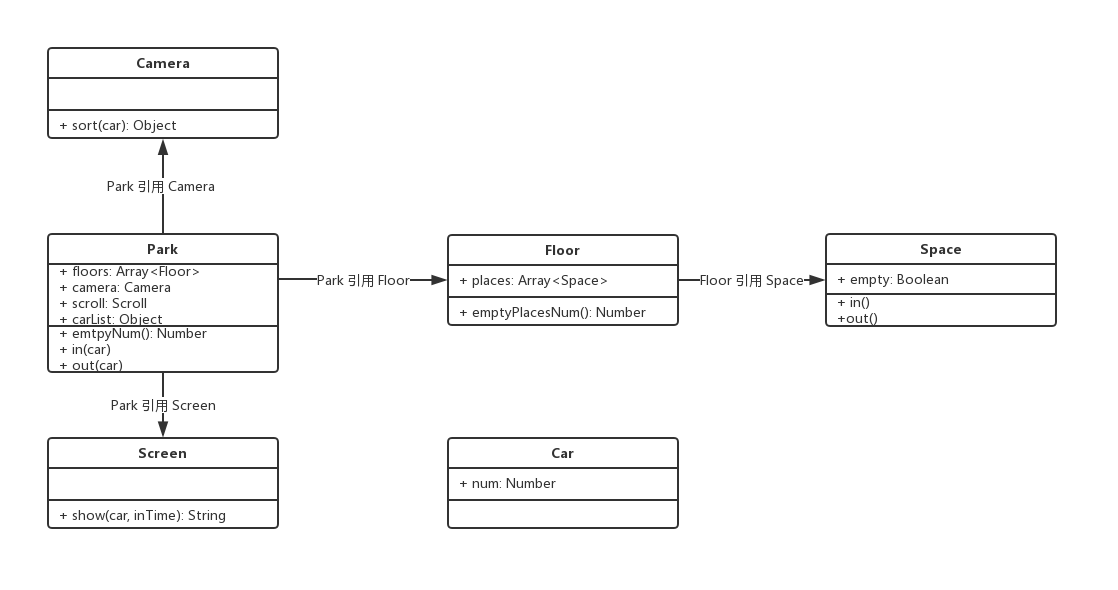
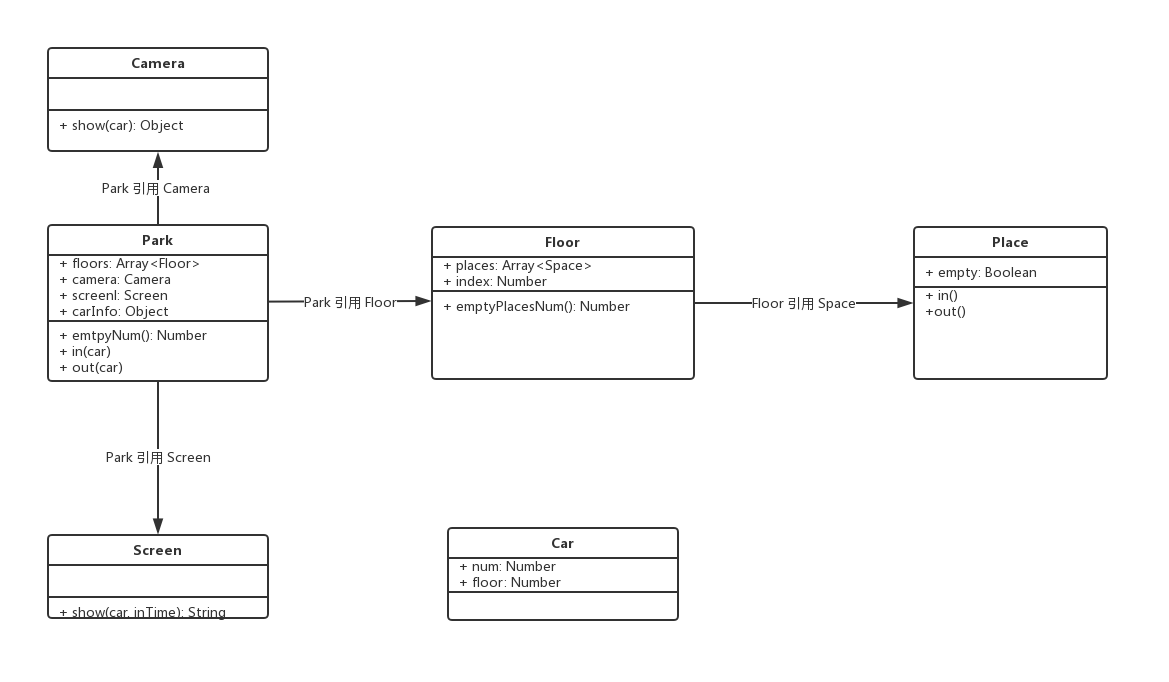
- 完成练习题二

Changed region(s): [[0.0304, 0.061, 0.9732, 0.9153], [0.3649, 0.7322, 0.6082, 0.9153]]

diff --git a/02. 设计原则/03. 面试题_02.js b/02. 设计原则/03. 面试题_02.js
@@ -11,15 +11,124 @@
 
 // 停车场
 class Park {
+	constructor(floors = []) {
+		this.floors = floors
+		this.camera = new Camera()
+		this.screen = new Screen()
+		this.carInfo = {}
+	}
 
+	// 车进入
+	in(car) {
+		// 拿到车辆信息: 车牌号, 进入时间
+		const carInfo = this.camera.show(car)
+		// 随机听到某个车位
+		const i = Math.floor(Math.random() * 100 % 100)
+		const place = this.floors[car.floor - 1].places[i]
+		place.in()
+		this.emptyNum()
+		carInfo.place = place
+		this.carInfo[car.num] = carInfo
+
+	}
+
+	// 车驶出
+	out(car) {
+		// 获取信息
+		const carInfo = this.carInfo[car.num]
+		const place = carInfo.place
+		place.out()
+		this.emptyNum()
+		this.screen.show(car, carInfo.inTime)
+	}
+
+	emptyNum() {
+		const message = this.floors.map(floor => `${floor.index}层还有${floor.emptyPlaceNum()}个车位`).join('\n')
+		console.log(message);
+	}
+}
+
+// 车
+class Car {
+	constructor(num, floor) {
+		// 车牌号
+		this.num = num
+		this.floor = floor
+	}
 }
 
 // 停车场的某层
 class Floor {
+	constructor(index, places) {
+		// 某层
+		this.index = index
+		// 多少个位置
+		this.places = places
+	}
 
+	// 有多少个空位
+	emptyPlaceNum() {
+		let num = 0
+		this.places.forEach(p => {
+			if (p.empty) {
+				num++
+			}
+		})
+		return num
+	}
 }
 
 // 停车场里的每某层的每某个车位
 class Place {
+	constructor() {
+		// 车位是否为空
+		this.empty = true
+	}
 
+	//车辆进入
+	in() {
+		this.empty = false
+	}
+
+	// 车辆驶出
+	out() {
+		this.empty = true
+	}
 }
+
+// 入口摄像头
+class Camera {
+	// 展示每一层的剩余车位数
+	show(car) {
+		return {
+			carNum: car.num, // 车牌号
+			inTime: new Date().getTime(), // 车辆进入时间
+		}
+	}
+}
+
+// 出口显示器
+class Screen {
+	show(car, inTime) {
+		console.log(`车牌号:${car.num}-停车时间:${new Date().getTime() - inTime}`)
+	}
+}
+
+// 三层停车场, 每层100个车位
+let floors = []
+for (let i = 0; i < 3; i++) {
+	let places = []
+	for (let j = 0; j < 100; j++) {
+		places.push(new Place())
+	}
+	floors.push(new Floor(i + 1, places))
+}
+const park = new Park(floors)
+const car1 = new Car(100, 1)
+const car2 = new Car(100, 2)
+const car3 = new Car(100, 3)
+const car4 = new Car(100, 3)
+park.in(car1)
+park.in(car2)
+park.in(car3)
+park.in(car4)
